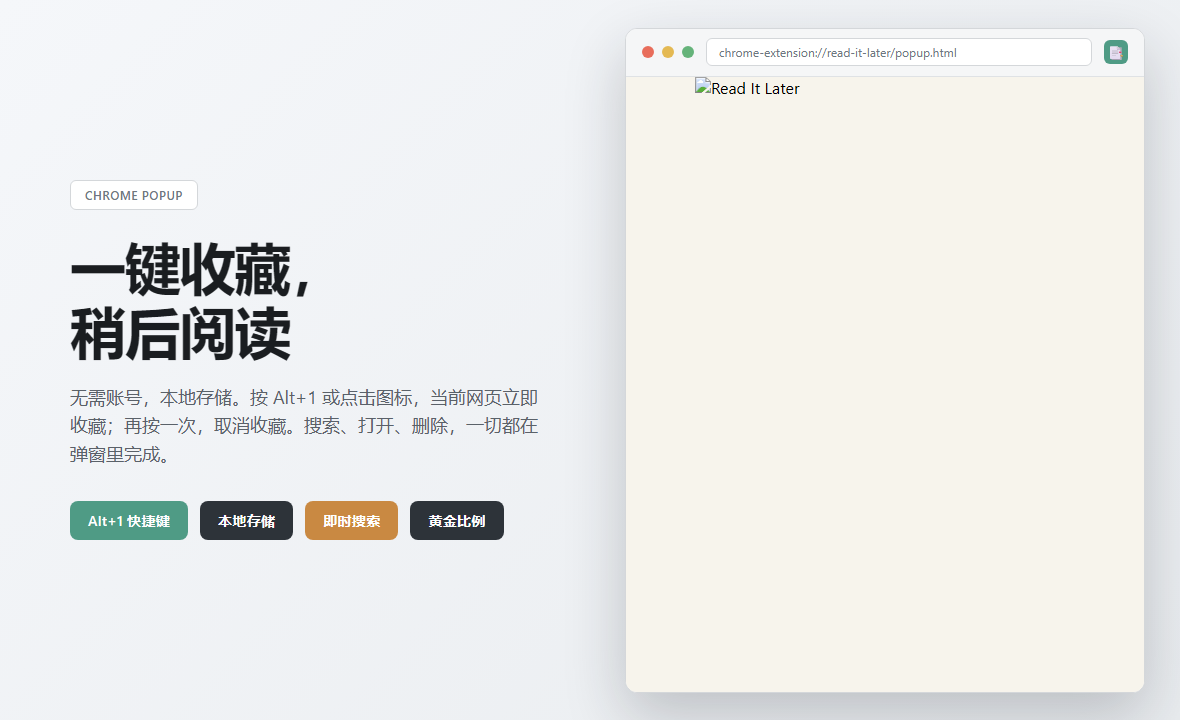
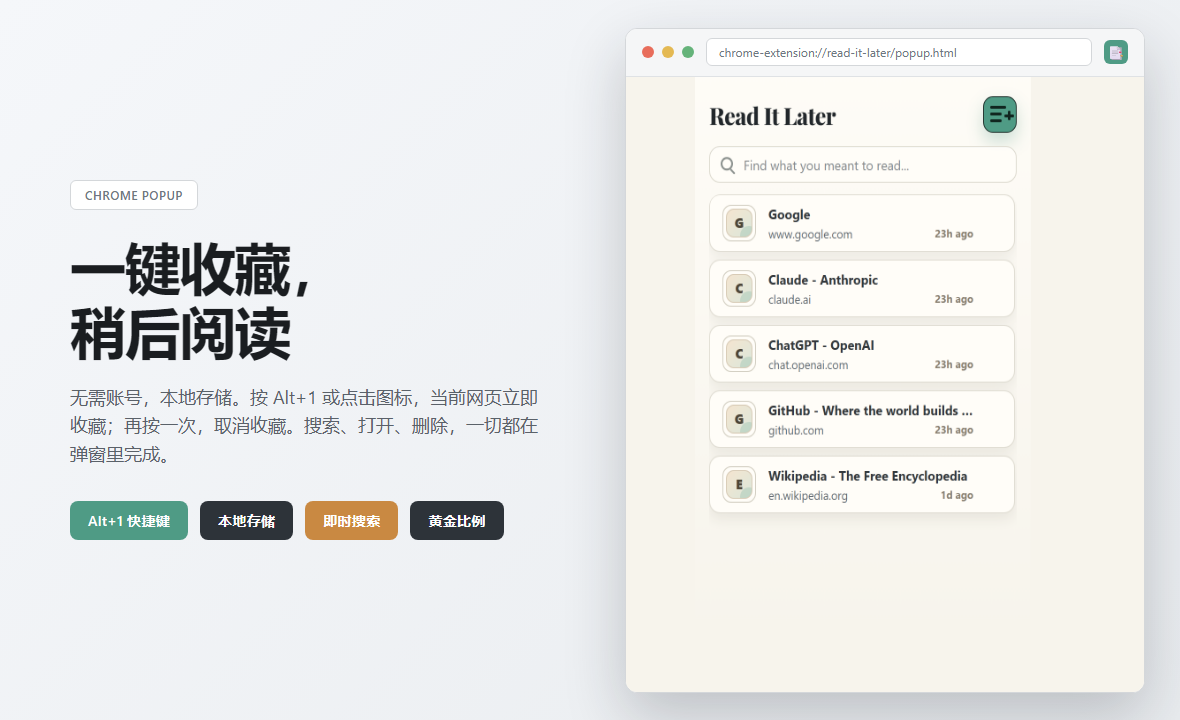
Fix hero page image path - popup now displays correctly
Previous screenshot showed empty beige background because image path was wrong:
- Old: src='docs/screenshots/popup-with-entries.png'
- New: src='screenshots/popup-with-entries.png' (correct relative path from docs/)

Regenerated hero-display.png with visible popup screenshot.
Image size increased from 151KB to 209KB (now includes actual popup content).

diff --git a/docs/hero-page.html b/docs/hero-page.html
@@ -208,7 +208,7 @@
           <div class="extension-icon">📑</div>
         </div>
         <div class="popup-container">
-          <img src="docs/screenshots/popup-with-entries.png" alt="Read It Later" class="popup-image">
+          <img src="screenshots/popup-with-entries.png" alt="Read It Later" class="popup-image">
         </div>
       </div>
     </div>